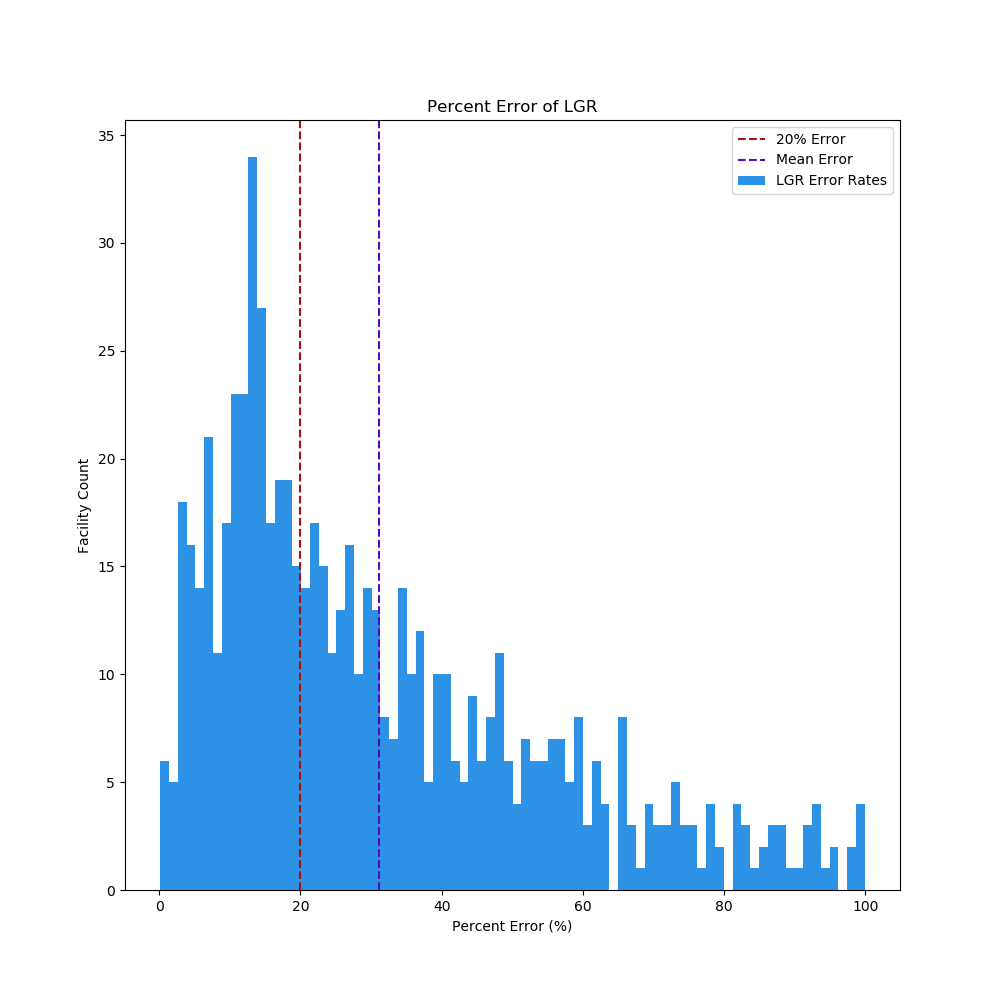
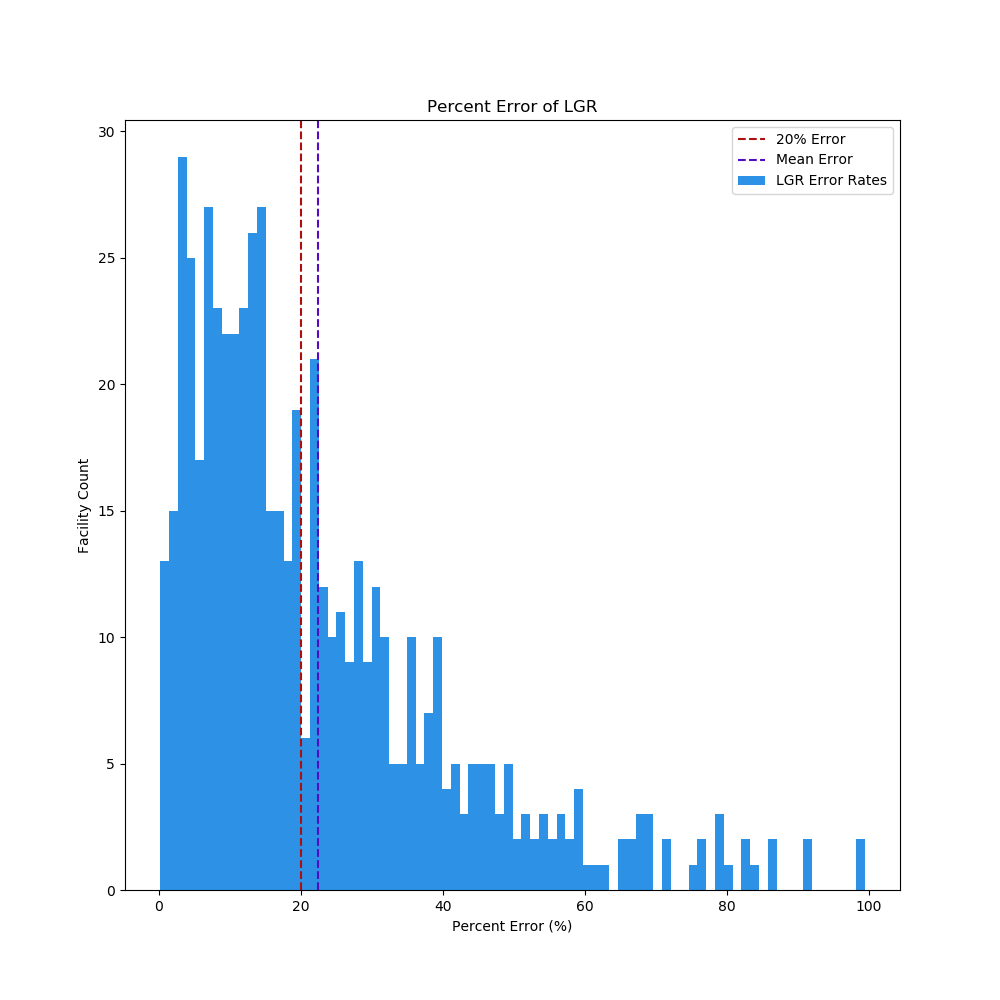
monthly error for lgr

diff --git a/fluids_comp.py b/fluids_comp.py
@@ -390,7 +390,7 @@ def lgr_gauge_plot(lgr_df, gauge_df):
     plt.xticks(rotation='vertical')
     plt.legend()
 
-    plt.savefig('images/lgr/v4/lgr_gauge_{}.png'.format(facility))
+    plt.savefig('images/lgr/worst/lgr_gauge_{}.png'.format(facility))
 
 def lgr_over(df):
     plt.close()
@@ -468,46 +468,55 @@ def facility_error(df):
                                       ignore_index=True)
     return return_df.sort_values('average_delta')
 
-def acc_distr(df):
+def acc_distr(df, month=''):
     plt.close()
 
     fig, ax = plt.subplots(1, 1, figsize=(10, 10))
     ax.hist(df[(df['per_err'] != np.inf) & \
                (df['per_err'].notnull()) & \
-               (df['per_err'] < 100)]['per_err'].values, \
+               (df['per_err'] <= 200)]['per_err'].values, \
                bins=80, color='#2d92e5', label='LGR Error Rates')
     ax.axvline(20, color='#ad0f0f', linestyle='dashed', label='20% Error')
-    ax.axvline(df[(df['per_err'] != np.inf) & \
+    error = df[(df['per_err'] != np.inf) & \
                (df['per_err'].notnull()) & \
-               (df['per_err'] < 100)]['per_err'].mean(), \
-               color='#540bc1', linestyle='dashed', label='Mean Error')
+               (df['per_err'] <= 100)]['per_err'].mean()
+    ax.axvline(error, color='#540bc1', linestyle='dashed', label='Mean Error')
 
     plt.title('Percent Error of LGR')
     plt.xlabel('Percent Error (%)')
     plt.ylabel('Facility Count')
+    xmin, xmax = plt.xlim()
+    ymin, ymax = plt.ylim()
+    plt.text(xmax*.5, ymax*.8, 'Averaging {:.2f}% Error'.format(error), fontsize=18)
     plt.legend()
 
-    plt.savefig('images/lgr/lgr_error.png')
+    plt.savefig('images/lgr/lgr_error_{}.png'.format(month))
 
 
 if __name__ == '__main__':
     # df_lgr = lgr_pull()
     # df_lgr.to_csv('data/lgr.csv')
-    # df_lgr = pd.read_csv('data/lgr.csv')
+    df_lgr = pd.read_csv('data/lgr.csv')
 
     # df_spill = spill_pull()
 
     # df_gwr = gwr_pull()
-    # gauge_df = gauge_pull()
+    gauge_df = gauge_pull()
 
     # off_df = spill_gauge(df_spill, gauge_df)
 
-    # df = match_gauge(df_lgr, gauge_df)
+    df = match_gauge(df_lgr, gauge_df[gauge_df['total_oil'] >= 140])
     # off_df = facility_error(df)
     # off_df.to_csv('data/temp_lgr_error.csv')
-    off_df = pd.read_csv('data/temp_lgr_error.csv')
+    # off_df = pd.read_csv('data/temp_lgr_error.csv')
+    # worst_lgr = off_df[off_df['per_err'].notnull()].sort_values('per_err')
+    # worst_lgr = worst_lgr.tail(20)
+    # df_lgr = df_lgr[df_lgr['FacilityKey'].isin(worst_lgr['FacilityKey'].unique())]
+    # df_lgr['CalcDate'] = pd.to_datetime(df_lgr['CalcDate'])
 
-    acc_distr(off_df)
+    for month in [8, 9, 10, 11, 12, 1]:
+        off_df = facility_error(df[df['Date'].dt.month == month])
+        acc_distr(off_df[(off_df['PredictionMethod'] == 'LGRv4')], month=month)
 
     # df_lgr.to_csv('data/lgr.csv')
     # df_gwr.to_csv('data/gwr.csv')
@@ -519,7 +528,8 @@ if __name__ == '__main__':
 
     # for facility in sorted(df_lgr['FacilityKey'].unique()):
     #     lgr_gauge_plot(df_lgr[df_lgr['FacilityKey'] == facility].sort_values('CalcDate'), \
-    #                    gauge_df[gauge_df['Facilitykey'] == facility].sort_values('gaugeDate'))
+    #                    gauge_df[(gauge_df['Facilitykey'] == facility) & \
+    #                             (gauge_df['total_oil'] >= 140)].sort_values('gaugeDate'))
         # break
 
     # plot_lgr(df_lgr[(df_lgr['LGROil'] <= df_lgr['FacilityCapacity']) & \
